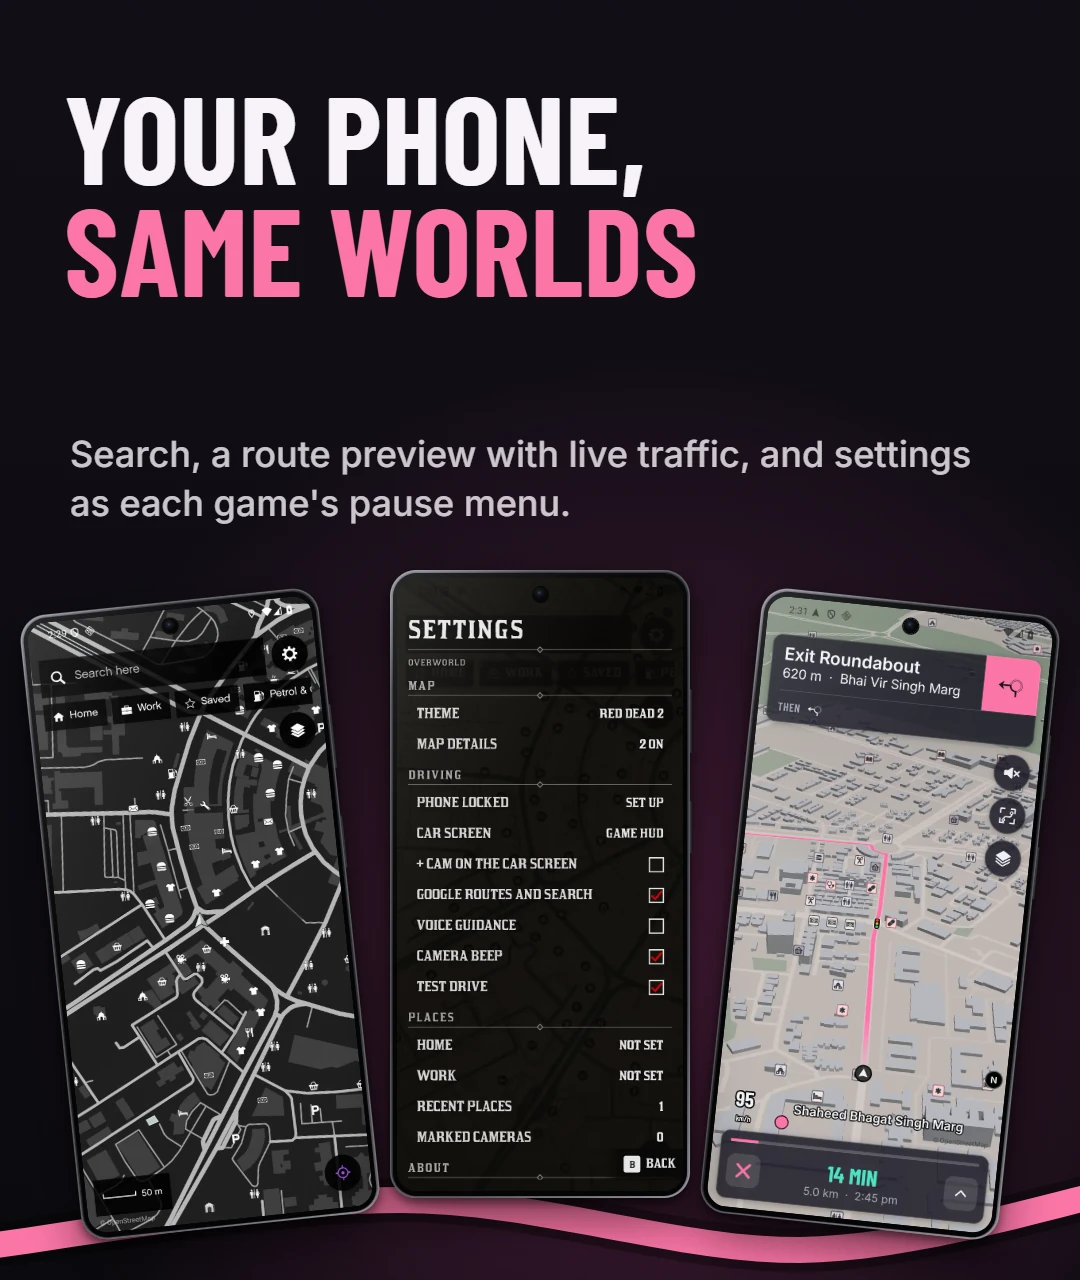
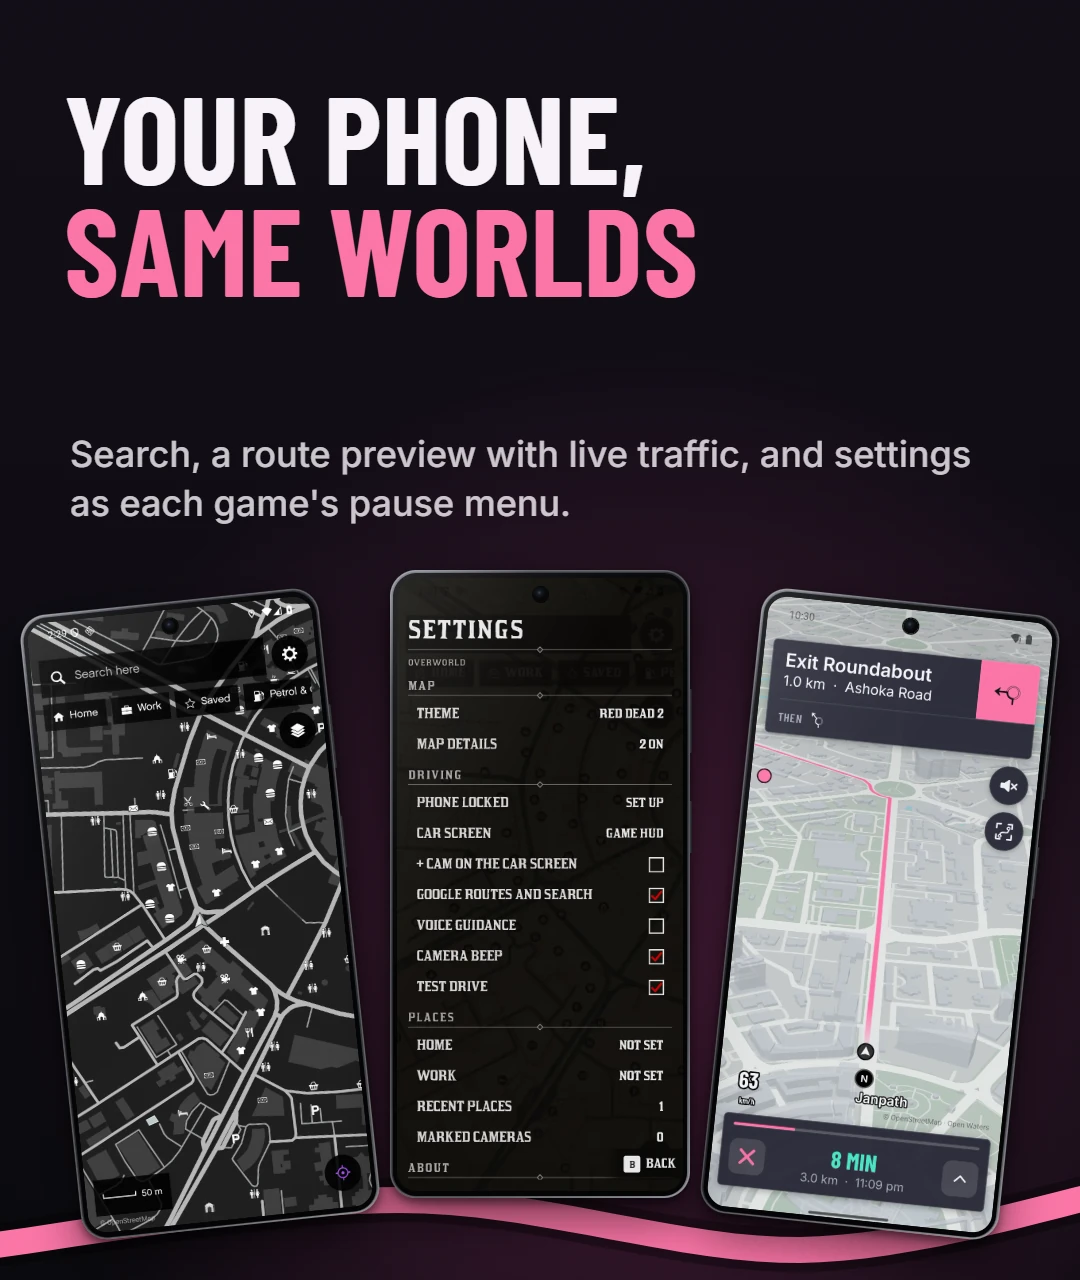
0.6.4: Algothrim, GTA VI day maps from the game, README for four worlds

Changed region(s): [[0.6417, 0.4688, 0.9778, 0.9688]]

diff --git a/tools/readme/layouts.js b/tools/readme/layouts.js
@@ -26,10 +26,18 @@ const WORLDS = {
   gta6: {
     bg: 'linear-gradient(160deg,#f0a05a 0%,#c8607a 34%,#4b2a6e 66%,#1d1536 100%)',
     color: '#fff6ee', accent: '#ffd27a', line: PINK, head: ['It follows', 'the sun'],
-    sub: "GTA VI's minimap: raised buildings and a pink route. Pale by day, warm at golden hour, violet at night.",
+    sub: "GTA VI's minimap: soft raised buildings and a pink route. Near-white by day, warm at golden hour, navy at night.",
     car: 'car-gta6-night.webp', phone: 'phone-gta6-drive.webp', glow: '#ff8fb5',
     extras: (m) => [{ type: 'pop', src: 'card-gta6.png', x: m ? 360 : 930, y: m ? 1004 : 468, w: m ? 440 : 400, rot: -3, radius: m ? 16 : 14 },
                     { type: 'sticker', src: 'limit_gta6_60.png', x: m ? 850 : 1390, y: m ? 1050 : 520, w: m ? 140 : 124, rot: 10 }],
+  },
+  // Algothrim: The Algothrim's own world (30 Nov 2026), thealgothrim.com as a map.
+  algo: {
+    bg: 'radial-gradient(900px 700px at 72% 56%, #4a0b18 0%, rgba(74,11,24,0) 70%), linear-gradient(180deg,#0c0a0b,#050505)',
+    color: '#f5f2f3', accent: '#dc1c45', line: '#dc1c45', head: ['Black and', 'crimson'],
+    sub: "Algothrim, The Algothrim's own world: black ground, near-black towers with lit windows, a crimson route.",
+    car: 'car-algo.webp', phone: 'phone-algo-drive.webp', glow: '#dc1c45',
+    extras: (m) => [{ type: 'sticker', src: 'app_icon_algo.png', x: m ? 820 : 1360, y: m ? 1030 : 500, w: m ? 160 : 140, rot: 8 }],
   },
 };
 

diff --git a/README.md b/README.md
@@ -19,7 +19,7 @@
 
 <p align="center">
   <a href="#get-it">Get it</a> ·
-  <a href="#three-worlds">Three worlds</a> ·
+  <a href="#four-worlds">Four worlds</a> ·
   <a href="#features">Features</a> ·
   <a href="#how-it-works">How it works</a> ·
   <a href="#build-it">Build it</a> ·
@@ -58,7 +58,7 @@ Updates then arrive as ordinary Play Store updates.
 
 The APK and the Play copy are signed differently, so uninstall one before installing the other.
 
-## Three worlds
+## Four worlds
 
 <picture>
   <source media="(max-width: 600px)" srcset="docs/readme/world-gta5-mobile.webp">
@@ -79,19 +79,26 @@ The APK and the Play copy are signed differently, so uninstall one before instal
   <img src="docs/readme/world-gta6.webp" alt="It follows the sun: the GTA VI world at night on the car screen and by day on the phone" width="100%">
 </picture>
 
-**GTA VI.** Two maps, as in the game, matched to the launch release. The pause map: soft green land, white roads, a bright cyan sea that deepens offshore, periwinkle buildings standing in 3D, gentle hill shading, place pins, and the game's big grey place names (cities and districts in tall condensed capitals, neighbourhoods smaller). As the sun sets it turns warm and dim, and before sunrise it's dark teal land, indigo water and slate buildings. On a phone trip it switches to the minimap: a steep 3D view close in, grey ground, lane dashes, flyovers standing over the roads below, and a pink route that fades in just ahead of the marker. The car keeps the pause map. Menus in the game's silver and violet.
+**GTA VI.** Two maps, as in the game. The pause map, coloured from the launch map: grey towns under pale lilac-grey roads, steel-blue buildings standing in 3D with a soft shadow, soft cyan water that deepens offshore, deep green parks, gentle hill shading, plain rounded place tiles and the game's big grey names for countries, states and cities only. As the sun sets it turns warm and dim, and before sunrise it's dark teal land, indigo water and slate buildings. On a phone trip it switches to the minimap, and the car shows the minimap all the time, as the game does while you drive: a steep 3D view close in, near-white by day with soft see-through blocks, khaki expressways with grey shoulders, flyovers standing over the roads below, navy at night, and a pink route that fades in just ahead of the marker. Menus in the game's silver and violet.
+
+<picture>
+  <source media="(max-width: 600px)" srcset="docs/readme/world-algo-mobile.webp">
+  <img src="docs/readme/world-algo.webp" alt="Black and crimson: the Algothrim world on the car screen and the phone" width="100%">
+</picture>
+
+**Algothrim.** The Algothrim's own world: thealgothrim.com drawn as a map. Black ground, graphite roads, wine-dark water with a crimson glow along the shore, near-black towers with warm and crimson lit windows, and a crimson route (or white with crimson edges). Its own place icons, player marker and app icon, Unbounded and Montserrat type, and menus in black glass with crimson. Not a game: a gift for everyone who drives with Overworld.
 
 <picture>
   <source media="(max-width: 600px)" srcset="docs/readme/phone-mobile.webp">
   <img src="docs/readme/phone.webp" alt="Your phone, same worlds: the map with its blips, Settings as Red Dead's pause menu, and a GTA VI drive" width="100%">
 </picture>
 
-**On the phone,** the same three worlds with Google Maps' layout: search, Home, Work and Saved, a place sheet, a route preview with live traffic, and Settings drawn as the game's pause menu.
+**On the phone,** the same four worlds with Google Maps' layout: search, Home, Work and Saved, a place sheet, a route preview with live traffic, and Settings drawn as the game's pause menu.
 
 ## Features
 
 - **The car screen comes first.** The game's map fills the Android Auto screen, and Android Auto's own cards carry the turn, "Then", lanes and time to go, in each world's colours with its own turn tiles (purple for GTA V, red for Red Dead, pink for GTA VI). Your speed, the speed-limit sign and camera alerts sit above the time card. It scales to every head unit and to split screen beside Spotify.
-- **Pick the route's colour.** Each world's own route, or the game's other one: yellow in GTA V, yellow or blue in Red Dead, cyan in GTA VI, with the destination marker to match.
+- **Pick the route's colour.** Each world's own route, or the game's other one: yellow in GTA V, yellow or blue in Red Dead, cyan in GTA VI, white in Algothrim, with the destination marker to match. Settings shows each as a swatch.
 - **Google's routes, the game's look.** Trips follow Google Maps' own route, with its traffic, closures and time to go, laid onto the game map. One switch turns Google off and uses only open data.
 - **Every light, every camera.** Traffic lights on the route, speed cameras ahead, accidents, road works and closures along the way, and speed-limit signs for each world that turn red at 5 km/h over.
 - **Flyovers you drive under.** Bridges stand over the roads they cross, and the route runs under a flyover you pass beneath and over one you drive on.
@@ -127,7 +134,7 @@ The APK and the Play copy are signed differently, so uninstall one before instal
 
 ### On the phone
 
-- **Google Maps layout, game look.** Tap a shop, temple or petrol pump on the map and the camera flies to it with Directions and Save; tilt with two fingers; tap locate twice and the map turns with the phone. GTA's pause-map corner shows the area and the scale beside the locate button. Settings is the game's pause menu with seven tabs across the top (Display, Navigation, Vehicle, Privacy, Offline, Alerts, About), each on one screen: Display opens first with the three worlds as pictures, one tap to switch, and every switch reads On or Off. Anything that forgets a place asks for a second tap.
+- **Google Maps layout, game look.** Tap a shop, temple or petrol pump on the map and the camera flies to it with Directions and Save; tilt with two fingers; tap locate twice and the map turns with the phone. GTA's pause-map corner shows the area and the scale beside the locate button. Settings is the game's pause menu with seven tabs across the top (Display, Navigation, Vehicle, Privacy, Offline, Alerts, About), each on one screen: Display opens first with the four worlds as pictures, each drawn by the app over a famous spot in your country's capital (India Gate in India), one tap to switch, then the route colours as swatches, and every switch reads On or Off. Anything that forgets a place asks for a second tap.
 - **Your places on the map.** Home, Work and starred places stand on the map the way each game marks what's yours (a safehouse, a briefcase, a star), and a tap on one opens it.
 - **You: saved places, Timeline and history.** The player-marker button beside Settings opens You, a game menu with three tabs. **Saved** holds Home, Work, your parked car, lists (Favourites, Want to go, Travel plans, Starred and your own, each with one of the world's icons), places with your own names and notes, and saved trips that start in one tap. **Timeline** shows where you stopped and the drives between them: a day at a time, a month at a glance, your most visited places and cities, and trips away from home, and any day can be drawn on the map. **History** keeps your searches, the places you looked at and your directions, each one removable. All of it stays on the phone; Timeline can be switched off or cleared in Settings, Privacy.
 - **Car, bike or walk.** Directions show the time by car, by motorbike and on foot side by side, and one tap switches the route. Walking routes keep to footpaths at your walking pace, and the speed badge hides on foot.
